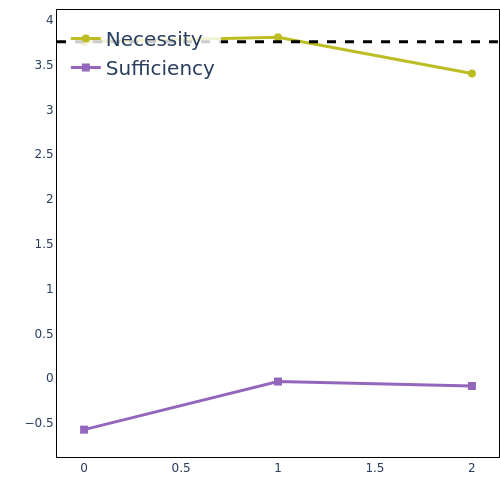
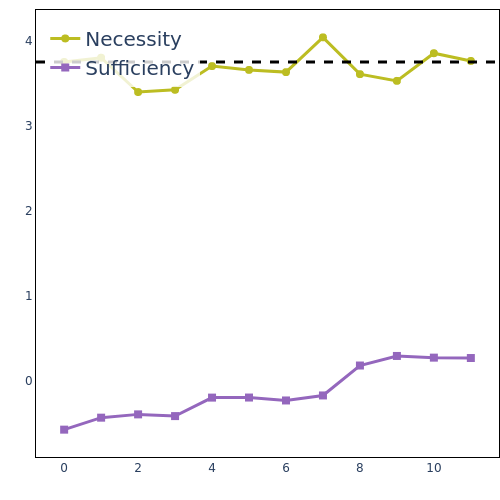
checkpoint

diff --git a/mimi/src/mimi/utils/helper_functions.py b/mimi/src/mimi/utils/helper_functions.py
@@ -678,47 +678,42 @@ def evaluate_accuracy(prompts, labels, model, device):
 def build_head_sequence_from_map(
     head_map: t.Tensor,
     *,
-    threshold: float = 0.5,
+    k: int = 15,
     absolute: bool = False,
     return_with_scores: bool = False,
     ):
     """
-    Select (layer, head) pairs whose score passes `threshold` in a [n_layers, n_heads]
-    tensor (e.g., norm_s_attn_denoising from patching_attention), sorted descending.
-
-    - If `absolute=False` (default), uses raw values: keep heads with value >= threshold
-      and sort by that value (desc).
-    - If `absolute=True`, uses absolute values: keep heads with |value| >= threshold
-      and sort by |value| (desc). Returned score (when requested) is the raw value.
+    Return the top-K (layer, head) pairs from a [n_layers, n_heads] tensor.
 
     Args:
-        head_map: Torch tensor of shape [n_layers, n_heads].
-        threshold: float threshold for selection (default 0.5).
-        absolute: if True, use absolute values for filtering + sorting.
-        return_with_scores: if True, return (layer, head, raw_value) tuples.
+        head_map: [n_layers, n_heads] tensor (e.g., norm_s_attn_denoising).
+        k: number of heads to return (default 15).
+        absolute: if True, rank by |value|; otherwise by raw value.
+        return_with_scores: if True, include raw scores in the output.
+
+    Returns:
+        [(layer, head)] or [(layer, head, raw_score)], sorted by score desc.
     """
     if head_map.dim() != 2:
         raise ValueError("Expected a 2D tensor of shape [n_layers, n_heads].")
 
-    crit = head_map.abs() if absolute else head_map
-    mask = crit >= threshold
-    idx = mask.nonzero(as_tuple=False)  # [N, 2], columns: layer, head
+    n_layers, n_heads = head_map.shape
+    scores = head_map.abs() if absolute else head_map
 
-    if idx.numel() == 0:
-        return []  # nothing passes the threshold
+    # Handle NaNs so they don't get selected
+    neg_inf = -t.inf if scores.dtype in (t.float16, t.bfloat16, t.float32, t.float64) else float("-inf")
+    scores = t.where(t.isnan(scores), t.full_like(scores, neg_inf), scores)
 
-    # scores used for sorting (abs if absolute else raw)
-    sort_scores = crit[idx[:, 0], idx[:, 1]]
-    order = t.argsort(sort_scores, descending=True)
-    idx = idx[order]
+    flat = scores.view(-1)
+    k = min(k, flat.numel())
+    if k == 0:
+        return []
+
+    vals, idx = t.topk(flat, k, largest=True, sorted=True)  # vals are for ordering only
+    layers = (idx // n_heads).tolist()
+    heads  = (idx %  n_heads).tolist()
 
     if return_with_scores:
-        # return raw scores so you can read sign/magnitude
-        out = [
-            (int(l.item()), int(h.item()), float(head_map[l, h].item()))
-            for l, h in idx
-        ]
+        return [(int(L), int(H), float(head_map[L, H].item())) for L, H in zip(layers, heads)]
     else:
-        out = [(int(l.item()), int(h.item())) for l, h in idx]
-
-    return out
+        return [(int(L), int(H)) for L, H in zip(layers, heads)]
